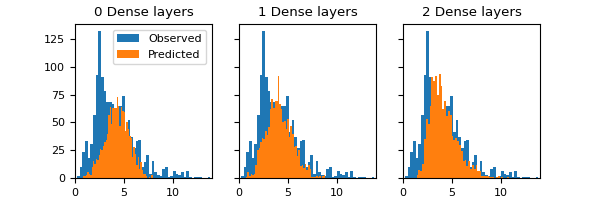
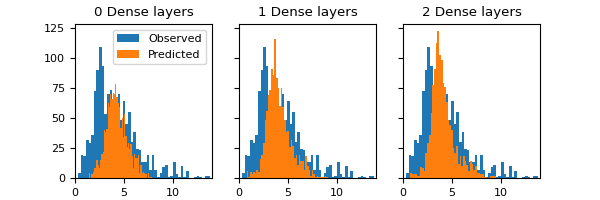
With improved dataset

diff --git a/report_latex/w266 report.tex b/report_latex/w266 report.tex
@@ -68,13 +68,11 @@ In the social science context correlation coefficient above 0.5 is generally con
 A few attempts have been made to address this issue, demonstrating modest but encouraging success. \citep{Macri2023-tr, Alohali2022-no, 10.1162/qss_a_00258, doi:10.1152/japplphysiol.00489.2020} The most sophisticated model utilized BERT context-aware encoding of the abstract to produce embedding that were then classified using  SVM, logistic regression or XGBoost to predict the impact factor quintile. This approach demonstrated prediction accuracy of approx. 75%.
 
 \section{Data}
-We will rely on the data extracted from the Web of Science, a platform that provides access to citation metrics for the majority of life science publications. The platform allows downloading csv files with the article abstract along with the ISSN identifier of the journal and other metadata. To reduce variability unrelated to the research question we will focus on a narrow field of radioligand therapy and select only original peer-reviewed articles published in English between 2000 and 2022. JIFs are available from Claritive Analytics “Journal Impact Factor Report” and contain the journal ISSN as well as the impact factor, by year. Merging these two datasets on ISSN we achieve our raw dateset, containing approximately 4500 records.
+We extracted data from the Web of Science, a platform that provides access to citation metrics for the majority of life science publications. The platform provides csv files with the article abstract along with the ISSN identifier of the journal and other metadata. To reduce variability unrelated to the research question we focus on a narrow field of radioligand therapy and select only original peer-reviewed articles published in English between 2000 and 2022. JIFs are available from Claritive Analytics “Journal Impact Factor Report” and contain the journal ISSN as well as the impact factor, by year. Merging these two datasets on ISSN we achieve our raw dataset, containing approximately 4500 records.
 
-Since our aim is to support researcher decision on publication strategy, we focus on the features that are available to the paper authors at the time of submission: 'Year Published', 'Authors', 'Document Title', 'Author Keywords', 'Abstract', 'Author Address', 'Funding Agency and Grant Number', 'Cited Reference Count', 'Page Count'. Using author identities as features would result in very sparse set of categorical variables, therefore we reduced the author information to just the number of authors and the author address to just the country. We also reduced the funding information to a binary variable funded/not-funded.
-
-'Abstract' is the most important and relevant feature of the paper. Together with the title and author's keywords it represents condensed meaning of the paper. Full text of the paper would have been a lot more information reach, but would also require significantly more computational resources. 
-
-Figure~\ref{fig:paiplot} shows the distribution and correlation matrix for the main quantitative variables available in the metadata. Figure~\ref{fig:countries} demonstrates distribution of the papers by the country of author's origin and the country where the paper was published. Domination of the USA is not surprising, given the preference for English language. Notably, most papers from non-English speaking authors, which is likely not reflected in the training of BERT model that we will be using later.
+Since our aim is to support researcher decision on publication strategy, we focus on the features available to authors at the time of submission: 'Year Published', 'Authors', 'Document Title', 'Author Keywords', 'Abstract', 'Author Address', 'Funding Agency and Grant Number', 'Cited Reference Count', 'Page Count'. Using author identities as features would result in very sparse set of categorical variables, therefore we reduced the author information to just the number of authors and the author address to just the country. We also reduced the funding information to a binary variable funded/not-funded. 'Abstract' is the most important and relevant feature of the paper. Together with the title and author's keywords it represents condensed meaning of the paper. Full text of the paper would have been a lot more information reach, but would also require significantly more computational resources. 
+ 
+Figure~\ref{fig:paiplot} shows the distribution and correlation matrix for the main quantitative variables available in the metadata. Figure~\ref{fig:countries} demonstrates distribution of the papers by the country of author's origin and the country where the paper was published. Domination of the USA is not surprising, given the preference for English language. Notably, most papers from non-English speaking authors, which is likely not reflected in the training of BERT model that we will be using later. Preliminary EDA showed that some abstracts contained publisher's copyright statements, essentially introducing a leak from label to the features. This statements were removed from the abstracts. We also filtered out all papers with JIF > 20, to reduce the influence of the few unusually good papers.
 \begin{figure}
 	\includegraphics[width= \columnwidth]{./Images/Pairplot.png}
 	\caption{Correlation plot of main numerical features}
@@ -88,7 +86,7 @@ Figure~\ref{fig:paiplot} shows the distribution and correlation matrix for the m
 \end{figure}
 
 \section{Methods}
-We will use regression models based on neural networks to predict the impact of the publications. To evaluate the importance of text data, we will compare predictive power of the model that includes text data vs the model that is based solely on metadata. We will reject null hypothesis if the addition of text data to the model significantly increase the Pearson's correlation coefficient between observed and predicted impact values.
+We use regression models based on neural networks to predict the impact of the publications. To evaluate the importance of text data, we compare predictive power of the model that includes text data vs the model that is based solely on metadata. Pearson's correlation coefficient between observed and predicted impact values is a metric we use to test our hypothesis. 
 
 Features selected after EDA fall into three general categories: numerical features, categorical features and text. While numerical features can be included into the model as-is, categorical variables and text need to be transformed before they become inputs into neural network. One-hot-encoded representation is a common way to transform categorical variables, but it lacks the ability to capture patterns present in the data. For instance, papers originating from Canada are likely similar to ones written in the USA, but very different from papers submitted from China. To preserve these patterns, we have chosen to use learned embedding representation of the categorical variables \citep{DBLP:journals/corr/GuoB16}.
 
@@ -97,34 +95,22 @@ Transformation of text into contextually-aware embedding is commonly achieved us
 The exact way representations of numerical, categorical and text data are combined will be investigated. For the baseline model we concatenated all three vectors and used them as input into a linear regression. In the future we plan to also subdivide the abstract into individual sentences and use cls tokens for more fine-grained text representation. We also plan to use the 2D-representation of text based on the individual word embedding (or sentence-level cls tokens) and process it with convolutional  neural network. Other combinations of the sentence-level and abstract-level embeddings can be used as well \citep{hs2022}. It is also intriguing to use individual embeddings of the keywords, because they were selected by the authors as the most representative of the paper.
 
 \section{Results and discussion}
-We investigated influence of a few model architecture choices on the final model performance. Any model would require a dense layer prior to regression output layer and we investigated how the number of dense layers affected performance. We used cls token generated by standard uncased BERT and added no dense layers, one or two dense layers on top of the 768-dimensional vector. All dense layers had 768 neurons. Correlation between predicted and observed JIFs improved upon addition of the first layer (r = 0.51 vs 0.54 p = 8e-07 assuming dependent samples), but did not improve with addition of the second dense layer (r = 0.544 vs 0.538 p = 0.18). However,  Figure~\ref{fig:dense} shows that the histograms of predicted and observed JIFs matched a lot closer for the model with 2 dense layers. To avoid overfitting we did not increase the number of layers further and used 2 dense layers in all subsequent experiments.
+Before testing our hypothesis we tested a few model architecture choices. First we investigated how the number of dense layers affects performance. We used cls token generated by standard uncased BERT and added no dense layers, one or two dense layers on top of the 768-dimensional vector. All dense layers had 768 neurons. Correlation between predicted and observed JIFs improved upon addition of the first layer (r = 0.54 vs 0.57 p = 8e-05 after Fisher's transformation, one-tailed, assuming dependent samples), but did not improve with addition of the second dense layer (r = 0.56). Replacing standard BERT with sciBERT, a model trained on scientific text, we further improved the result (r = 0.57 vs 0.64 p = 2e-08). 
 
+For the baseline model we built three regression models. The one based on metadata only included on numerical features concatenated with learned embedings for each of the categorical features. The resulting vector was fed directly into the dense output layer with one element and linear activation.  Supporting intuition behind our null-hypothesis, r value for this model was 0.55, far better than a random guess. Therefore metadata alone, without any features related to the scientific meaning of the paper can predict the impact of the paper to some extent. The second model included only sciBERT \textit{cls} token and no meta data. This model exhibited r-value of 0.63, a statistically significant (p=0.0008, independent samples) improvement. The final model included both metadata and sciBERT \textit{cls} token concatenated into one vector before the final dense and regression layer. This model demonstrated r = 0.67, an improvement over both baseline models. It exceeded performance of the pure metadata model with p-value 2E-07. Based on that we can reject the null hypothesis and conclude that addition of a feature related to the paper actual meaning increased model's predictive power by approx. 20\%.
+Figure~\ref{fig:meta_no_meta} shows the distribution of the observed and predicted JIFs for the first and the third model. Interestingly, both models are reluctant to predict low JIFs. Additionally, learning curves showed clear signs of overfitting with validation loss far exceeding training loss. 
 \begin{figure}
-	\includegraphics[width= \columnwidth]{./Images/Dense layers.png}
-	\caption{Observed-Predicted for different number of dense layers.}
-	\label{fig:dense}
-\end{figure}
-
-Replacing standard BERT with sciBERT, a model trained on scientific text, we further improved the result (r = 0.54 vs 0.61 p = 1e-08). 
-
-For the baseline model we built a two regression models. One based on metadata only was based on numerical features concatenated with learned embedings for each of the categorical features. The resulting vector was fed directly into the dense output layer with one element and linear activation. Interestingly, adding additional dense layers before the out layer did not improve performance of this baseline model. The model including text data had identical architecture, but also included cls token of uncased BERT output from the abstract. Figure~\ref{fig:meta_no_meta} shows correlation plots obtained for two models. Observed-predicted Pearson's correlation using metadata alone was 0.38, and adding BERT's cls token improved it to 0.47 (p = 0.0034 after Fisher's transformation, one-tailed, assuming independent samples). 
-\begin{figure}
-	\includegraphics[width= \columnwidth]{./Images/Metadata w BERT.png}
+	\includegraphics[width= \columnwidth]{./Images/meta no meta.png}
 	\caption{Observed-Predicted for models w metadata.}
 	\label{fig:meta_no_meta}
 \end{figure}
 
-While the improvement from adding text data was statistically significant, neither model crossed our pre-determined threshold of r = 0.5, casting doubts on the predictive power of this approach. To improve the correlation we experimented with model based on BERT token alone. Surprisingly, just cls token from the BERT transformation of abstract, coupled with a dense layer and a regression layer yielded r=0.50 and switching to sciBERT improved it even further, up to 0.56 (p = 0.021). Figure~\ref{fig:BERT_vs_sciBERT} illustrates this experiment. Notably, the learning curves indicated significant over-fitting despite aggressive 0.3 dropout.
+As a first attempt to improve our model, we added drop-out layers after learned embeddings for categorical variables and also tried predicting relative ranking of the paper rather than JIF directly. To that end we calculated the proportion of papers that have the same or lower JIF for each paper (rank). We used max and min JIF obtained from training data and assumed it is represenative of the whole population. Scaling label to (0,1) allowed us to use sigmoid activation in the regression layer. We hoped to make training more sensitive to the changes in the middle of the distribution. However, this approach resulted in lower model performance (r=0.61) 
 
-\begin{figure}
-	\includegraphics[width= \columnwidth]{./Images/BERT vs sciBERT.png}
-	\caption{Observed-Predicted for two BERT models.}
-	\label{fig:BERT_vs_sciBERT}
-\end{figure}
+
 
 \section{Conclusions and Next Steps}
-Our preliminary experiments strongly support rejection of null hypothesis, but practical usability of the predictions from our model is still in question.
-
+Our preliminary experiments strongly support rejection of our somewhat cynical null hypothesis. More to that, performance of our best model approaches useful, with more than 70\% correlation between predicted and observed, this model can give the researcher a good estimate of what journals are good fit for their paper. 
 To improve observed-predicted correlation we plan to investigate using sentence-level cls-tokens as well as full set of word embeddings, possibly in combination with CNN architecture. To combat over fitting we plan to enrich data set by adding concatenating titles to abstracts. As a long-shot experiment we also plan to augment data with synthetic abstracts compiled from individual sentences of papers published in the same journal in the same year.
 
 Target variable transformation might be beneficial as well. Presently we use linear regression, which might produce negative values. By replacing JIF with JIF rank calculated on the training data set and using sigmoid activation on the output layer, we might achieve improved model performance. 
